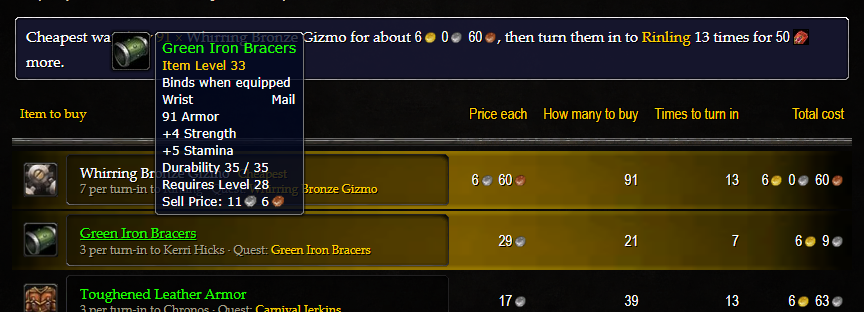
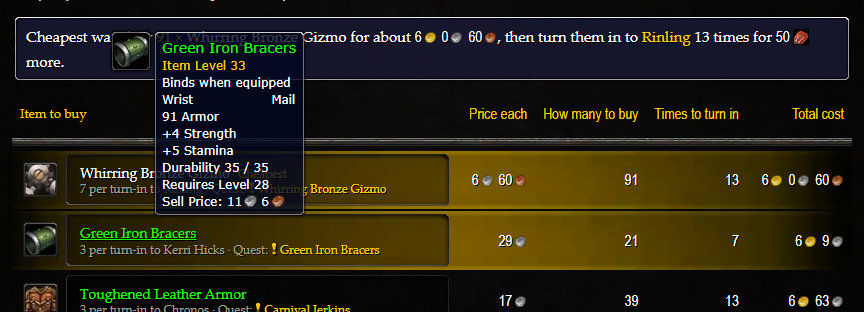
Yellow quest "!" before every quest name
Uses the game's GossipFrame/AvailableQuestIcon texture (added to the
texture build script as assets/ui/quest-icon.png).

Changed region(s): [[0.2812, 0.5769, 0.4688, 0.6346], [0.3125, 0.7788, 0.4375, 0.8365], [0.2812, 0.9808, 0.4062, 1.0]]

diff --git a/css/styles.css b/css/styles.css
@@ -678,6 +678,16 @@ code {
 /* quest links in the quest log's yellow */
 .quest-link { color: var(--normal); text-decoration: none; }
 .quest-link:hover, .quest-link:focus-visible { text-decoration: underline; color: var(--highlight); }
+/* GossipFrame/AvailableQuestIcon: the yellow "!" NPCs show next to quests */
+.quest-link__icon {
+  display: inline-block;
+  width: 6px;
+  height: 14px;
+  margin-right: 3px;
+  vertical-align: -2px;
+  background: url("../assets/ui/quest-icon.png") center / contain no-repeat;
+  filter: drop-shadow(1px 1px 0 #000);
+}
 
 .no-price {
   font-family: var(--font);

diff --git a/components/wowhead.js b/components/wowhead.js
@@ -26,7 +26,7 @@
           alt=" tickets" title="Darkmoon Faire Prize Ticket" onerror="this.replaceWith(' tickets')"></span>`;
     },
     questLink(quest) {
-      return `<a class="quest-link" href="${esc(DMF.WOWHEAD_QUEST_URL(quest.id))}" target="_blank" rel="noopener">${esc(quest.name)}</a>`;
+      return `<a class="quest-link" href="${esc(DMF.WOWHEAD_QUEST_URL(quest.id))}" target="_blank" rel="noopener"><span class="quest-link__icon" aria-hidden="true"></span>${esc(quest.name)}</a>`;
     },
   };
 })();

diff --git a/tools/build-ui-textures.py b/tools/build-ui-textures.py
@@ -94,6 +94,7 @@ def main():
     save(crop_alpha(fetch("AUCTIONFRAME/UI-AuctionItemNameFrame")), "row")
     save(fetch("QUESTFRAME/UI-QuestTitleHighlight"), "row-highlight")
     save(fetch("COMMON/GoldRing"), "gold-ring")
+    save(crop_alpha(fetch("GossipFrame/AvailableQuestIcon")), "quest-icon")   # yellow "!" from NPC quest lists
     for coin in ("Gold", "Silver", "Copper"):
         save(fetch(f"MONEYFRAME/UI-{coin}Icon"), f"coin-{coin.lower()}")
 
